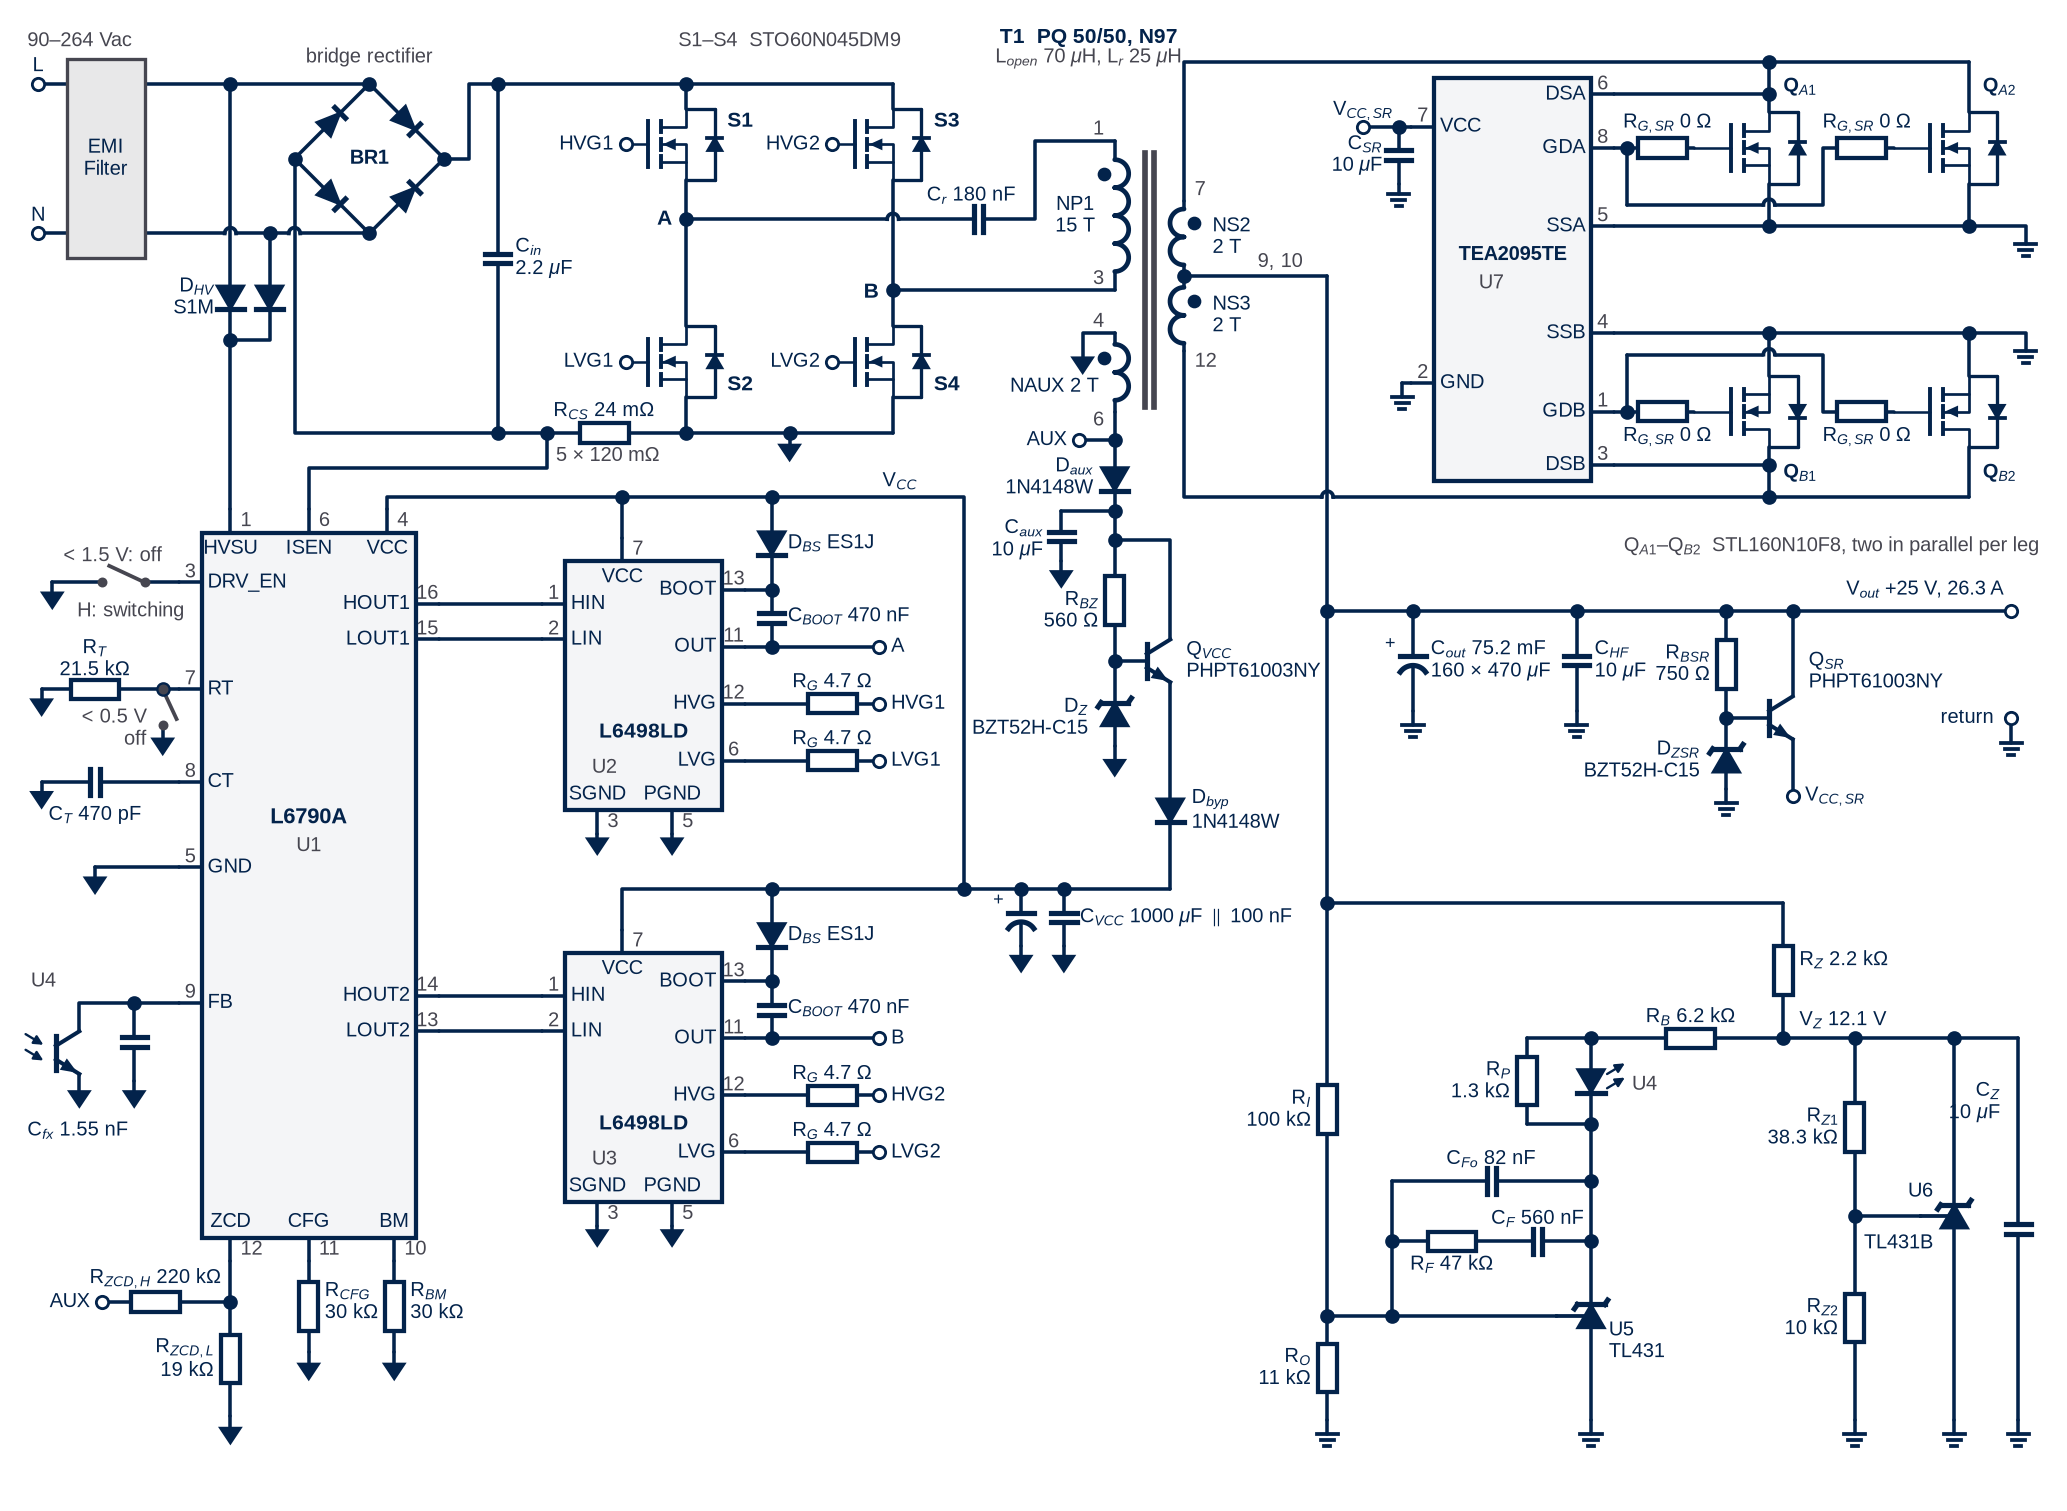
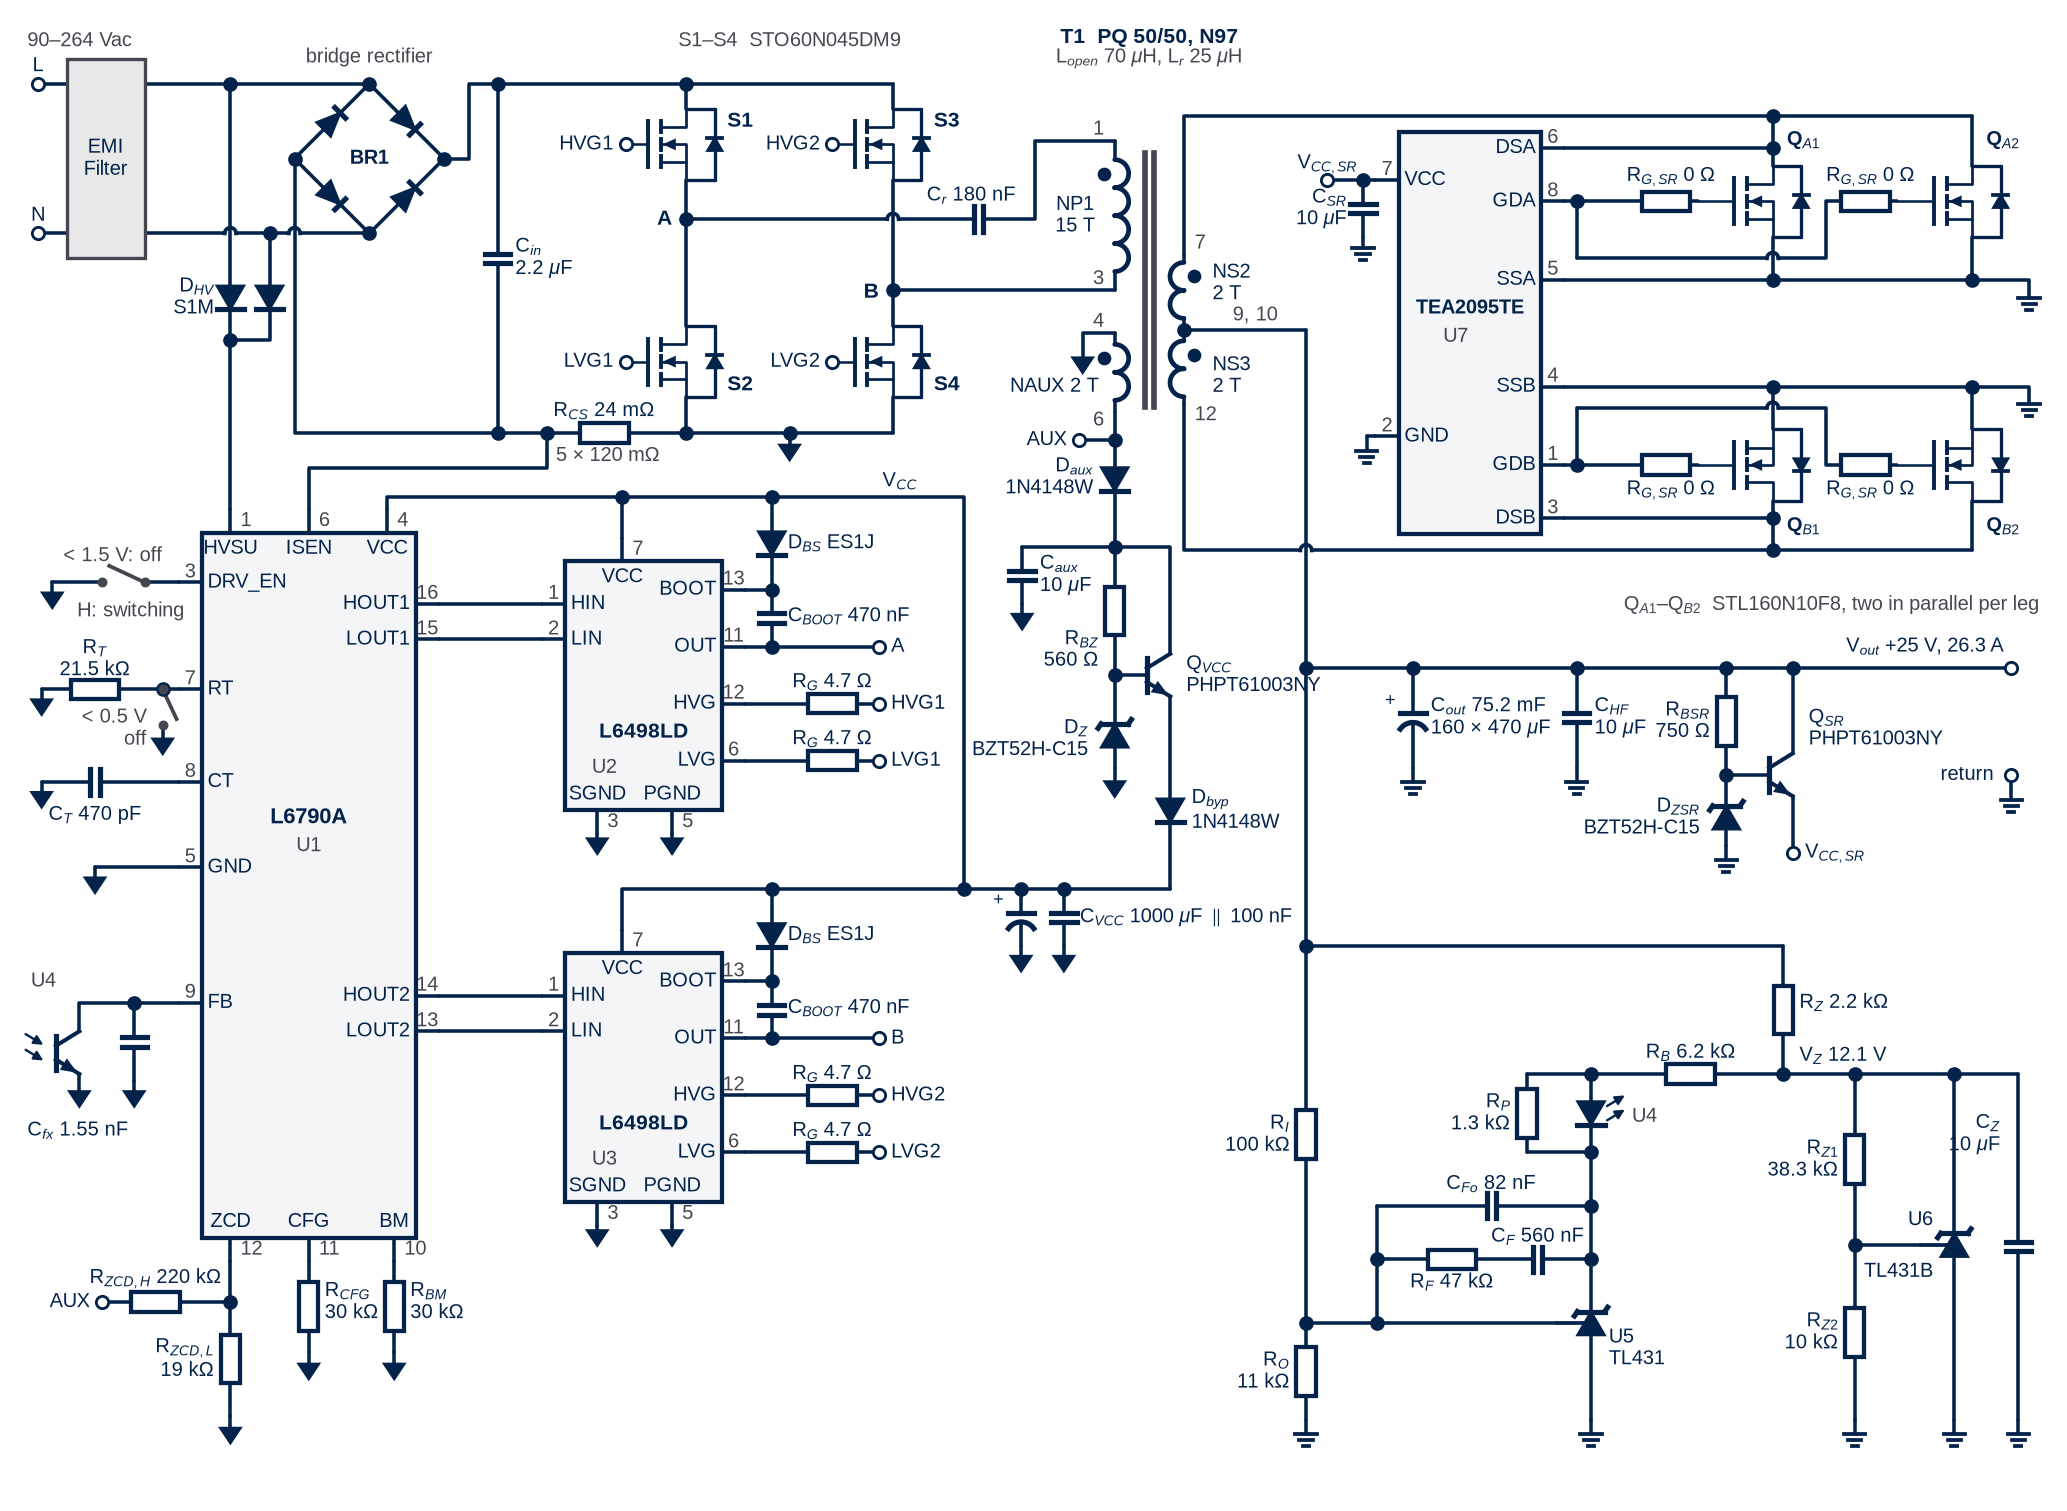
Round 84 (in progress): full schematic — secondary and SR stage lower, T1 caption centred, one aux node, SR pitch wider
Claude-Session: https://claude.ai/code/session_01L3H8Na8buSZY2uPpuuSkn7

Changed region(s): [[0.4644, 0.0311, 0.9908, 0.9643], [0.867, 0.7776, 0.9908, 0.9021], [0.4954, 0.0, 0.6193, 0.0622]]

diff --git a/Design Guide/generators/figs_ref.py b/Design Guide/generators/figs_ref.py
@@ -4555,8 +4555,9 @@ def an_full(save, foot):
     # ================================================= T1
     XC = 31.6
     YT1 = 37.8                             # pin 1
-    YS7 = 36.1                             # pin 7: NS2 + NS3 centred on the
-    #                                        core, NP1 + NAUX span 37.8-30.2
+    YS7 = 34.6                             # pin 7: the secondary and the SR
+    #                                        stage sit lower, T1's caption
+    #                                        centred over the core
     (p1, p3), (p4, p6), (s7, s9), (s10, s12) = _xf(
         ax, XC, [('L', YT1, YB, 4), ('L', 32.4, 30.2, 2),
                  ('R', YS7, YS7 - 2.0, 2), ('R', YS7 - 2.2, YS7 - 4.2, 2)])
@@ -4578,13 +4579,13 @@ def an_full(save, foot):
             color=GREY, ha='right')
     S.label(ax, xs + 0.3, s12[1] - 0.3, str(_pm['NS3'][1][0]), size=SN,
             color=GREY, ha='left')
-    S.label(ax, XC - 1.7, 40.7, 'T1  PQ 50/50, N97', size=9.0, weight='bold')
-    S.label(ax, XC - 1.7, 40.1, 'L$_{open}$ %.0f $\\mu$H, L$_r$ %.0f $\\mu$H'
+    S.label(ax, XC, 40.7, 'T1  PQ 50/50, N97', size=9.0, weight='bold')
+    S.label(ax, XC, 40.1, 'L$_{open}$ %.0f $\\mu$H, L$_r$ %.0f $\\mu$H'
             % (_sv('L.open'), _sv('L.short')), size=SN, color=GREY)
     S.label(ax, (XCN + xw) / 2.0, 35.7, 'NP1\n%.0f T' % _sv('N.p'), size=SN)
-    S.label(ax, xs + 0.8, YS7 - 1.0, 'NS2\n%.0f T' % _sv('N.s'), size=SN,
+    S.label(ax, xs + 0.8, YS7 - 0.8, 'NS2\n%.0f T' % _sv('N.s'), size=SN,
             ha='left')
-    S.label(ax, xs + 0.8, YS7 - 3.2, 'NS3\n%.0f T' % _sv('N.s'), size=SN,
+    S.label(ax, xs + 0.8, YS7 - 3.4, 'NS3\n%.0f T' % _sv('N.s'), size=SN,
             ha='left')
     # NAUX: pin 4 (the dot) on a short stub to the left, down to ground on
     # a lead of its own; pin 6 straight down to D_aux
@@ -4752,28 +4753,26 @@ def an_full(save, foot):
     # ================================================= V_CC regulator
     #  one column under pin 6: AUX tap, D_aux, the C_aux node (to the left),
     #  the collector node (to the right), R_BZ, the base node, D_Z
-    XRZ, YBN, YN1, YN2 = xw, 23.2, 27.4, 26.6
+    XRZ, YBN, YN1 = xw, 22.8, 26.4
     S.wire(ax, [(xw, YCA), (xw, YN1)])
-    S.wire(ax, [(xw, YN1), (xw, YN2)])
     S.dot(ax, xw, YN1)
-    XCA = xw - 1.5
+    XCA = xw - 2.6
     S.wire(ax, [(xw, YN1), (XCA, YN1)])
-    vcap(XCA, YN1, 26.0, 'C$_{aux}$\n' + _c(_sv('C.aux') * 1e3), side='l',
-         yl=26.6)
-    pg(XCA, 26.0, 0.3)
+    vcap(XCA, YN1, 24.8, 'C$_{aux}$\n' + _c(_sv('C.aux') * 1e3), side='r',
+         yl=25.6)
+    pg(XCA, 24.8, 0.3)
     bq, cq, eq_ = _npn(ax, XRZ + 0.9, YBN, **BJ)
-    S.dot(ax, xw, YN2)
-    S.wire(ax, [(xw, YN2), (cq[0], YN2), cq])
-    vres(XRZ, YN2, YBN, 'R$_{BZ}$\n' + _r(_sv('R.BZ_sel')), side='l',
-         yl=24.6)
+    S.wire(ax, [(xw, YN1), (cq[0], YN1), cq])
+    vres(XRZ, YN1, YBN, 'R$_{BZ}$\n' + _r(_sv('R.BZ_sel')), side='l',
+         yl=23.5)
     S.dot(ax, XRZ, YBN)
     S.wire(ax, [(XRZ, YBN), bq])
-    za, zc = _zener(ax, XRZ, 21.7)
+    za, zc = _zener(ax, XRZ, 21.1)
     S.wire(ax, [(XRZ, YBN), zc])
-    S.wire(ax, [za, (XRZ, 20.8)])
-    pg(XRZ, 20.8, 0.4)
-    S.label(ax, XRZ - 0.75, 21.6, 'D$_Z$\nBZT52H-C15', size=SN, ha='right')
-    S.label(ax, cq[0] + 0.45, 23.2, 'Q$_{VCC}$\nPHPT61003NY', size=SN,
+    S.wire(ax, [za, (XRZ, 20.2)])
+    pg(XRZ, 20.2, 0.4)
+    S.label(ax, XRZ - 0.75, 21.0, 'D$_Z$\nBZT52H-C15', size=SN, ha='right')
+    S.label(ax, cq[0] + 0.45, 22.8, 'Q$_{VCC}$\nPHPT61003NY', size=SN,
             ha='left')
     ya, yk = S.diode(ax, eq_[0], 19.0, horiz=False, flip=True)
     S.wire(ax, [eq_, ya])
@@ -4790,25 +4789,25 @@ def an_full(save, foot):
             + ' $\\parallel$ ' + _c(_sv('C.VCC_hf')), size=SN, ha='left')
 
     # ================================================= SR stage
-    XV = 36.6                              # V_out: centre tap straight down
+    XV = 36.0                              # V_out: centre tap straight down
     S.wire(ax, [(xs, YCT), (XV, YCT)])
-    S.label(ax, xs + 2.7, YCT + 0.4, '%d, %d' % (_pm['NS2'][1][0],
+    S.label(ax, xs + 2.0, YCT + 0.4, '%d, %d' % (_pm['NS2'][1][0],
                                                  _pm['NS3'][0][0]),
             size=SN, color=GREY)
     #  leg A upright (drain bus on top), leg B upside down (drain bus at the
     #  bottom), so each leg's DS/SS pair runs straight across from the IC
     #  SS pins sit at the source-bus height, DS pins on the drain lead:
     #  both Kelvin wires are straight
-    YDA, YCA_, YSA, HOPA, YDSA = 40.0, 37.6, 35.4, 36.0, 39.1
-    YDB, YCB, YSB, HOPB, YDSB = 27.8, 30.2, 32.4, 31.8, 28.7
-    TX0, TX1, TY0, TY1 = 39.6, 44.0, 28.25, 39.55
+    YDA, YCA_, YSA, HOPA, YDSA = 38.5, 36.1, 33.9, 34.5, 37.6
+    YDB, YCB, YSB, HOPB, YDSB = 26.3, 28.7, 30.9, 30.3, 27.2
+    TX0, TX1, TY0, TY1 = 38.6, 42.6, 26.75, 38.05
     c = _ic(ax, TX0, TY0, TX1, TY1, 'TEA2095TE',
             [('R', YDSA, 6, 'DSA'), ('R', YCA_, 8, 'GDA'),
              ('R', YSA, 5, 'SSA'), ('R', YSB, 4, 'SSB'),
              ('R', YCB, 1, 'GDB'), ('R', YDSB, 3, 'DSB'),
-             ('L', 38.2, 7, 'VCC'), ('L', 31.0, 2, 'GND')],
-            ref=34.6, size=SN, psize=SN, tsize=8.6, tpad=0.45)
-    S.label(ax, TX0 + 1.6, 33.8, 'U7', size=SN, color=GREY)
+             ('L', 36.7, 7, 'VCC'), ('L', 29.5, 2, 'GND')],
+            ref=33.1, size=SN, psize=SN, tsize=8.6, tpad=0.45)
+    S.label(ax, TX0 + 1.6, 32.3, 'U7', size=SN, color=GREY)
     gx_, gy_ = c['GND']
     S.wire(ax, [(gx_, gy_), (TX0 - 0.9, gy_)])
     sg(TX0 - 0.9, gy_, 0.4)
@@ -4816,12 +4815,12 @@ def an_full(save, foot):
     XSR = TX0 - 1.0
     S.wire(ax, [(vx, vy), (XSR - 1.0, vy)])
     S.dot(ax, XSR, vy)
-    vcap(XSR, vy, 36.6)
-    sg(XSR, 36.6, 0.3)
+    vcap(XSR, vy, 35.1)
+    sg(XSR, 35.1, 0.3)
     flag(XSR - 1.0, vy, 'V$_{CC,SR}$', side='u')
-    S.label(ax, XSR - 0.45, 37.4, 'C$_{SR}$\n' + _c(_sv('C.SR') * 1e3),
+    S.label(ax, XSR - 0.45, 35.9, 'C$_{SR}$\n' + _c(_sv('C.SR') * 1e3),
             size=SN, ha='right')
-    XG, XQ1, XQ2, XGND = 45.0, 49.0, 54.6, 56.2
+    XG, XQ1, XQ2, XGND = 43.6, 49.1, 54.7, 56.3
     MGS = 2.1                              # gate lead: the resistor clear
     #                                        of the gate
     MOSS = dict(MOS, gate=MGS)
@@ -4873,55 +4872,55 @@ def an_full(save, foot):
     S.wire(ax, [s12, (xs, YDB), (XV - R, YDB)])
     X.hop(ax, XV, YDB, r=R)
     S.wire(ax, [(XV + R, YDB), (XQ2, YDB)])
-    S.label(ax, 56.6, 26.4, 'Q$_{A1}$–Q$_{B2}$  STL160N10F8, two in parallel '
+    S.label(ax, 56.6, 24.75, 'Q$_{A1}$–Q$_{B2}$  STL160N10F8, two in parallel '
             'per leg', size=SN, color=GREY, ha='right')
 
     # ================================================= output bank
-    YO2, YT = 24.6, 16.4
+    YO2, YT = 23.0, 15.2
     S.wire(ax, [(XV, YCT), (XV, YT)])      # on down to R_I
     S.dot(ax, XV, YO2)
     S.wire(ax, [(XV, YO2), (55.8, YO2)])
     _term(ax, 55.8, YO2, MS)
     S.label(ax, 55.6, YO2 + 0.6, 'V$_{out}$ +%.0f V, %.1f A'
             % (V['Vout'], V['Iout']), size=SN, ha='right')
-    _term(ax, 55.8, 21.6, MS)
-    S.wire(ax, [(55.8, 21.6), (55.8, 20.9)])
-    sg(55.8, 20.9, 0.0)
-    S.label(ax, 55.3, 21.6, 'return', size=SN, ha='right')
+    _term(ax, 55.8, 20.0, MS)
+    S.wire(ax, [(55.8, 20.0), (55.8, 19.3)])
+    sg(55.8, 19.3, 0.0)
+    S.label(ax, 55.3, 20.0, 'return', size=SN, ha='right')
     for x, fn_, txt_ in ((39.0, ecap, 'C$_{out}$ %.1f mF\n%.0f × %.0f $\\mu$F'
                           % (_sv('C.out'), _sv('n.C'), _sv('C.single'))),
                          (43.6, vcap, 'C$_{HF}$\n%.0f $\\mu$F'
                           % _sv('C.ceramic'))):
         S.dot(ax, x, YO2)
-        fn_(x, YO2, 21.8)
-        sg(x, 21.8, 0.4)
-        S.label(ax, x + 0.5, 23.2, txt_, size=SZ, ha='left')
+        fn_(x, YO2, 20.2)
+        sg(x, 20.2, 0.4)
+        S.label(ax, x + 0.5, 21.6, txt_, size=SZ, ha='left')
     # the SR supply follower (14c.4)
-    XRB, XQB, YBS = 47.8, 49.0, 21.6
+    XRB, XQB, YBS = 47.8, 49.0, 20.0
     S.dot(ax, XRB, YO2)
     vres(XRB, YO2, YBS, 'R$_{BSR}$\n' + _r(_sv('R.BSR_sel')), side='l',
-         yl=23.1)
+         yl=21.5)
     S.dot(ax, XRB, YBS)
     bq, cq, eq_ = _npn(ax, XQB, YBS, **BJ)
     S.wire(ax, [(XRB, YBS), bq])
     S.wire(ax, [cq, (cq[0], YO2)])
     S.dot(ax, cq[0], YO2)
-    za, zc = _zener(ax, XRB, 20.4)
+    za, zc = _zener(ax, XRB, 18.8)
     S.wire(ax, [(XRB, YBS), zc])
-    S.wire(ax, [za, (XRB, 19.6)])
-    sg(XRB, 19.6, 0.4)
-    S.label(ax, XRB - 0.75, 20.4, 'D$_{ZSR}$\nBZT52H-C15', size=SN,
+    S.wire(ax, [za, (XRB, 18.0)])
+    sg(XRB, 18.0, 0.4)
+    S.label(ax, XRB - 0.75, 18.8, 'D$_{ZSR}$\nBZT52H-C15', size=SN,
             ha='right')
-    S.wire(ax, [eq_, (eq_[0], 19.4)])
-    flag(eq_[0], 19.4, 'V$_{CC,SR}$')
-    S.label(ax, eq_[0] + 0.45, 22.9, 'Q$_{SR}$\nPHPT61003NY', size=SN,
+    S.wire(ax, [eq_, (eq_[0], 17.8)])
+    flag(eq_[0], 17.8, 'V$_{CC,SR}$')
+    S.label(ax, eq_[0] + 0.45, 21.3, 'Q$_{SR}$\nPHPT61003NY', size=SN,
             ha='left')
 
     # ================================================= voltage loop
     #  R_I hangs straight off the V_out column; the LED rail's feed R_Z
     #  takes V_out from the same column at YT
     YGR = 1.9                              # where the local grounds hang
-    XRI, YREF = XV, 4.8
+    XRI, YREF = XV, 4.6
     S.dot(ax, XRI, YT)
     vres(XRI, YT, YREF, 'R$_I$\n' + _r(_sv('R.I') * 1e3), side='l')
     vres(XRI, YREF, YGR, 'R$_O$\n' + _r(_sv('R.o') * 1e3), side='l')
@@ -4929,7 +4928,7 @@ def an_full(save, foot):
     S.dot(ax, XRI, YREF)
     XK = 44.0
     ta, tc, tr = _tl431(ax, XK, YREF)
-    XL_, YF1, YF2 = 38.4, 8.6, 6.9
+    XL_, YF1, YF2 = 38.0, 7.9, 6.4
     S.wire(ax, [(XRI, YREF), tr])
     S.dot(ax, XL_, YREF)
     S.wire(ax, [ta, (XK, YGR)])
@@ -4948,7 +4947,7 @@ def an_full(save, foot):
     S.wire(ax, [cb, (XK, YF2)])
     S.label(ax, 40.1, YF2 - 0.65, 'R$_F$ ' + _r(_sv('R.F') * 1e3), size=SZ)
     S.label(ax, 42.5, YF2 + 0.62, 'C$_F$ ' + _c(_sv('C.F')), size=SZ)
-    YLC, YLA = 10.2, 12.6
+    YLC, YLA = 9.4, 11.6
     S.wire(ax, [tc, (XK, YLC)])
     S.dot(ax, XK, YF1)
     S.dot(ax, XK, YF2)
@@ -4976,12 +4975,12 @@ def an_full(save, foot):
     S.wire(ax, [(XK, YLA), ra])
     S.wire(ax, [rb, (XCZ, YLA)])
     S.label(ax, XRB_, YLA + 0.6, 'R$_B$ ' + _r(_sv('R.B') * 1e3), size=SZ)
-    vres(XRZ_, YT, YLA, 'R$_Z$ ' + _r(_sv('R.Z_sel')), yl=14.8)
+    vres(XRZ_, YT, YLA, 'R$_Z$ ' + _r(_sv('R.Z_sel')), yl=13.6)
     for x in (XRZ_, XZD, XU6):
         S.dot(ax, x, YLA)
     S.label(ax, XRZ_ + 0.45, YLA + 0.5, 'V$_Z$ %.1f V' % _sv('V.Z'),
             size=SZ, ha='left')
-    YRZ = 7.6
+    YRZ = 6.8
     vres(XZD, YLA, YRZ, 'R$_{Z1}$\n' + _r(_sv('R.Z1') * 1e3), side='l')
     vres(XZD, YRZ, YGR, 'R$_{Z2}$\n' + _r(_sv('R.Z2') * 1e3), side='l')
     sg(XZD, YGR, 0.4)
@@ -4993,7 +4992,7 @@ def an_full(save, foot):
     sg(XU6, YGR, 0.4)
     S.label(ax, XU6 - 0.6, YRZ + 0.7, 'U6', size=SN, ha='right')
     S.label(ax, XU6 - 0.6, YRZ - 0.75, 'TL431B', size=SN, ha='right')
-    vcap(XCZ, YLA, YGR, 'C$_Z$\n' + _c(_sv('C.Z') * 1e3), side='l', yl=10.8)
+    vcap(XCZ, YLA, YGR, 'C$_Z$\n' + _c(_sv('C.Z') * 1e3), side='l', yl=9.9)
     sg(XCZ, YGR, 0.4)
     save(fig, 'an_full')
 
